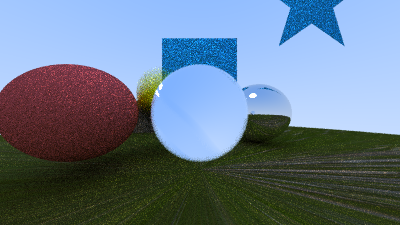
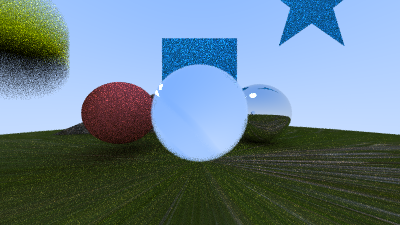
quad class

diff --git a/normal_interpolation_objects.py b/normal_interpolation_objects.py
@@ -1,0 +1,68 @@
+import numpy as np
+
+from materials import Lambertian
+from triangle import Triangle
+
+# Octahedron vertices (centered at origin)
+v_top    = np.array([ 0.0,  1.0,  -2.0], dtype=np.float32)
+v_bottom = np.array([ 0.0, -1.0,  -2.0], dtype=np.float32)
+v_right  = np.array([ 1.0,  0.0,  -2.0], dtype=np.float32)
+v_left   = np.array([-1.0,  0.0,  -2.0], dtype=np.float32)
+v_front  = np.array([ 0.0,  0.0,  -1.0], dtype=np.float32)
+v_back   = np.array([ 0.0,  0.0, -3.0], dtype=np.float32)
+
+# For a sphere-like shading, vertex normals = normalized vertex positions
+def norm(p: np.ndarray) -> np.ndarray:
+    return p / np.linalg.norm(p)
+
+n_top    = norm(v_top)
+n_bottom = norm(v_bottom)
+n_right  = norm(v_right)
+n_left   = norm(v_left)
+n_front  = norm(v_front)
+n_back   = norm(v_back)
+
+# Some material you already defined
+mat_red_sphere = Lambertian(np.array([0.8, 0.2, 0.2], dtype=np.float32))
+
+flat_sphere_tris = [
+    # Top four faces
+    Triangle(v_top,    v_right, v_front, mat_red_sphere),
+    Triangle(v_top,    v_front, v_left,  mat_red_sphere),
+    Triangle(v_top,    v_left,  v_back,  mat_red_sphere),
+    Triangle(v_top,    v_back,  v_right, mat_red_sphere),
+
+    # Bottom four faces
+    Triangle(v_bottom, v_front, v_right, mat_red_sphere),
+    Triangle(v_bottom, v_left,  v_front, mat_red_sphere),
+    Triangle(v_bottom, v_back,  v_left,  mat_red_sphere),
+    Triangle(v_bottom, v_right, v_back,  mat_red_sphere),
+]
+
+smooth_sphere_tris = [
+    # Top four faces
+    Triangle(v_top,    v_right, v_front, mat_red_sphere,
+             normal0=n_top, normal1=n_right, normal2=n_front),
+
+    Triangle(v_top,    v_front, v_left,  mat_red_sphere,
+             normal0=n_top, normal1=n_front, normal2=n_left),
+
+    Triangle(v_top,    v_left,  v_back,  mat_red_sphere,
+             normal0=n_top, normal1=n_left, normal2=n_back),
+
+    Triangle(v_top,    v_back,  v_right, mat_red_sphere,
+             normal0=n_top, normal1=n_back, normal2=n_right),
+
+    # Bottom four faces
+    Triangle(v_bottom, v_front, v_right, mat_red_sphere,
+             normal0=n_bottom, normal1=n_front, normal2=n_right),
+
+    Triangle(v_bottom, v_left,  v_front, mat_red_sphere,
+             normal0=n_bottom, normal1=n_left, normal2=n_front),
+
+    Triangle(v_bottom, v_back,  v_left,  mat_red_sphere,
+             normal0=n_bottom, normal1=n_back, normal2=n_left),
+
+    Triangle(v_bottom, v_right, v_back,  mat_red_sphere,
+             normal0=n_bottom, normal1=n_right, normal2=n_back),
+]

diff --git a/raytracer.py b/raytracer.py
@@ -7,10 +7,12 @@ from camera import Camera
 from materials import Dielectric, Emissive, Lambertian, Metal
 from mesh import Mesh
 from moving_sphere import MovingSphere
+from quad import Quad
 from ray import Ray, normalize, reflect, refract, schlick
 from sphere import Sphere
 from texture import ImageTexture
 from triangle import Triangle
+from normal_interpolation_objects import smooth_sphere_tris, flat_sphere_tris
 
 MAX_DEPTH = 10
 
@@ -85,6 +87,15 @@ def main():
         (0, 2, 3),
     ]
     mesh_instance = Mesh.from_vertices_indices(vertices, indices, material_mesh)
+
+    quad = Quad(
+        v0=np.array([-1.0, 0.0, -1.0], dtype=np.float32),
+        v1=np.array([1.0, 0.0, -1.0], dtype=np.float32),
+        v2=np.array([1.0, 2.0, -1.0], dtype=np.float32),
+        v3=np.array([-1.0, 2.0, -1.0], dtype=np.float32),
+        material=Lambertian(np.array([0.8, 0.8, 0.8], dtype=np.float32)),
+    )
+
     
     world = BVHNode([
         Sphere(
@@ -124,14 +135,17 @@ def main():
         mesh_instance,
         Mesh.load_from_file('stuff_to_load/star.mesh', material_mesh),
         MovingSphere(
-            center0=np.array([-0.5, 0.0, -0.5], dtype=np.float32),
-            center1=np.array([-0.5, 2.0, -0.5], dtype=np.float32),
+            center0=np.array([-1.5, 0.4, -0.9], dtype=np.float32),
+            center1=np.array([-1.5, 0.8, -0.9], dtype=np.float32),
             time0=0.0,
             time1=1.0,
             radius=0.3,
             material=material_ground
-        )
+        ),
+        quad
     ])
+
+    normal_interpolation_example = BVHNode(smooth_sphere_tris)
 
     for row in range(height):
         for col in range(width):
@@ -149,7 +163,7 @@ def main():
     image_uint8 = (np.clip(image, 0.0, 1.0) * 255).astype(np.uint8)
 
     rendered_image = Image.fromarray(image_uint8, mode='RGB')
-    rendered_image.save('output.png')
+    rendered_image.save('quad.png')
     print('yayy')
 
 if __name__ == '__main__':

diff --git a/triangle.py b/triangle.py
@@ -14,7 +14,10 @@ class Triangle:
                  material: Material,
                  texture_xy0: np.ndarray | None = None,
                  texture_xy1: np.ndarray | None = None,
-                 texture_xy2: np.ndarray | None = None):
+                 texture_xy2: np.ndarray | None = None,
+                 normal0: np.ndarray | None = None,
+                 normal1: np.ndarray | None = None,
+                 normal2: np.ndarray | None = None):
         self.v0 = v0
         self.v1 = v1
         self.v2 = v2
@@ -25,6 +28,10 @@ class Triangle:
         self.texture_xy0 = texture_xy0
         self.texture_xy1 = texture_xy1
         self.texture_xy2 = texture_xy2
+
+        self.normal0 = None if normal0 is None else normalize(normal0)
+        self.normal1 = None if normal1 is None else normalize(normal1)
+        self.normal2 = None if normal2 is None else normalize(normal2)
     
     def hit(self, ray: Ray, time_min: float, time_max: float) -> HitRecord | None:
         #triple product scaler
@@ -59,7 +66,16 @@ class Triangle:
 
         outward_normal = normalize(self.normal)
         front_face = np.dot(ray.direction, outward_normal) < 0.0
-        normal = outward_normal if front_face else -outward_normal
+        if self.normal0 is not None and self.normal1 is not None and self.normal2 is not None:
+            #phong shading / gouraud-style normal interpolation
+            smooth_normal = normalize(
+                (1 - u - v) * self.normal0
+                + u * self.normal1
+                + v * self.normal2
+            )
+            normal = smooth_normal if front_face else -smooth_normal
+        else:
+            normal = outward_normal if front_face else -outward_normal
 
         texture_xy = None
         if self.texture_xy0 is not None and self.texture_xy1 is not None and self.texture_xy2 is not None:

diff --git a/quad.py b/quad.py
@@ -1,0 +1,38 @@
+import numpy as np
+
+from aabb import Axis_Aligned_Bounding_Box
+from materials import Material
+from ray import Ray
+from triangle import Triangle
+
+
+class Quad:
+    def __init__(
+        self,
+        v0: np.ndarray,
+        v1: np.ndarray,
+        v2: np.ndarray,
+        v3: np.ndarray,
+        material: Material,
+        texture_xy0: np.ndarray | None = None,
+        texture_xy1: np.ndarray | None = None,
+        texture_xy2: np.ndarray | None = None,
+        texture_xy3: np.ndarray | None = None,
+    ):
+        self.triangle1 = Triangle(v0, v1, v2, material, texture_xy0, texture_xy1, texture_xy2)
+        self.triangle2 = Triangle(v0, v2, v3, material, texture_xy0, texture_xy2, texture_xy3)
+        self.material = material
+
+    def hit(self, ray: Ray, time_min: float, time_max: float):
+        hit1 = self.triangle1.hit(ray, time_min, time_max)
+        if hit1 is not None:
+            time_max = hit1.time
+        hit2 = self.triangle2.hit(ray, time_min, time_max)
+        if hit2 is not None and (hit1 is None or hit2.time < hit1.time):
+            return hit2
+        return hit1
+    
+    def bounding_box(self) -> Axis_Aligned_Bounding_Box:
+        box1 = self.triangle1.bounding_box()
+        box2 = self.triangle2.bounding_box()
+        return  Axis_Aligned_Bounding_Box.surrounding_box(box1, box2)
